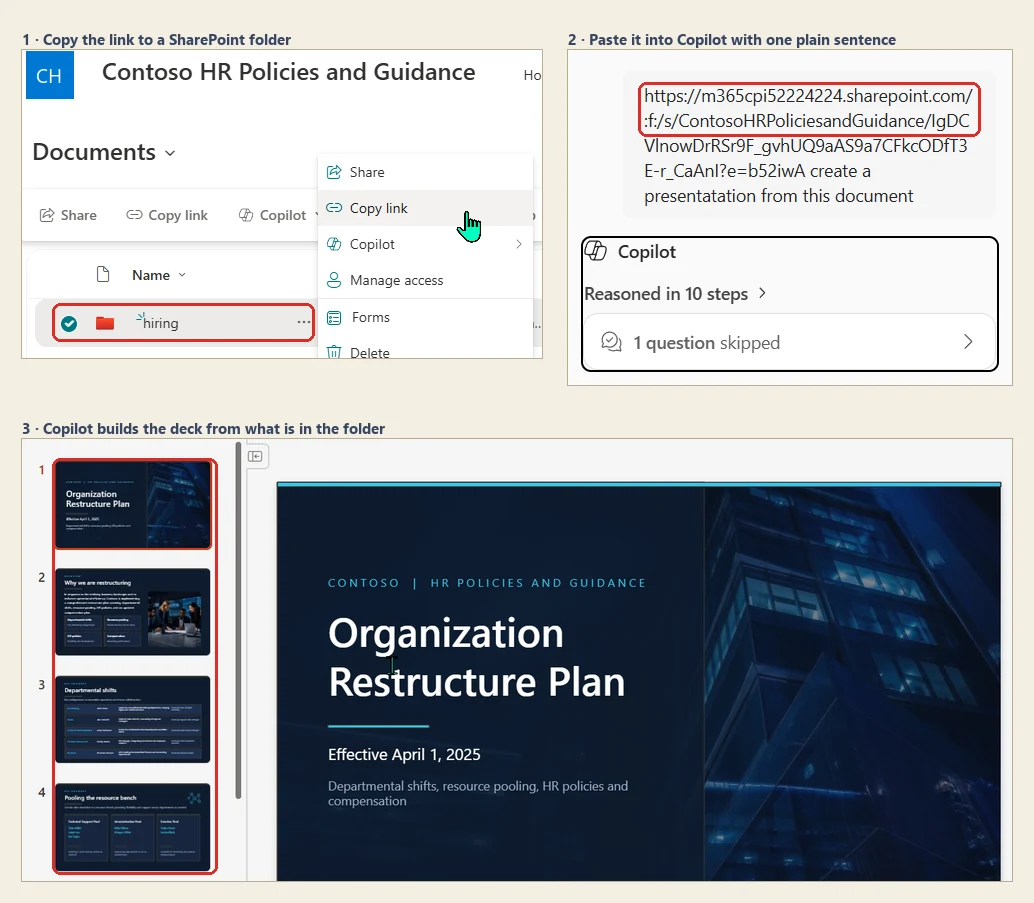
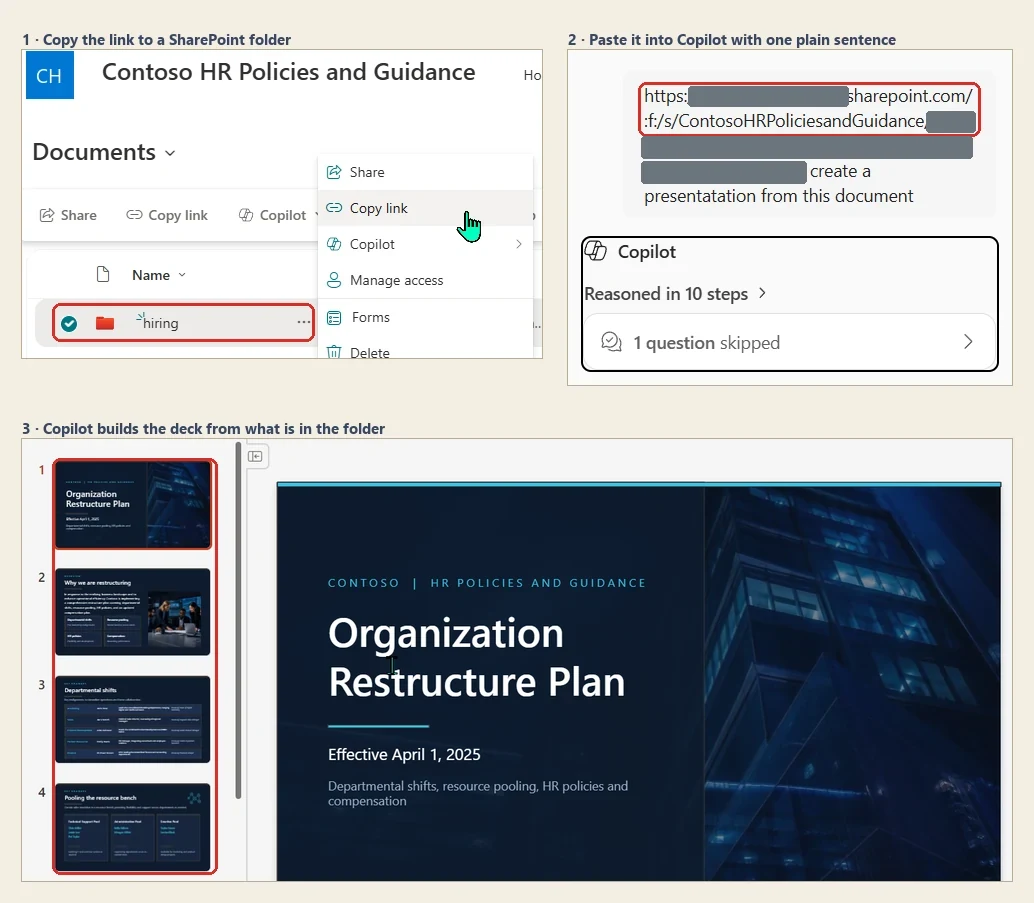
Redact live SharePoint sharing token in S13, and fix a slide count
Two publish blockers found by reading the Rule #8 image observations back
against what the prose claims about the same images.

1. S13 exposed a working sharing URL. The red box in that panel deliberately
   draws the eye to the pasted link, and the link was fully legible: lab
   tenant host, folder path, sharing token and its ?e= parameter. The tenant
   is a disposable CDX lab holding Contoso sample data, so the blast radius
   is small - but a sharing URL with a live token does not belong in a public
   post. Grey bars now cover the tenant subdomain and the token. The ":f:"
   folder marker and the library name are deliberately left readable, because
   the body text teaches ":f:" as SharePoint's own marker for a folder rather
   than a file - redacting it would have removed the teaching point.

2. The same section claimed "Five slides are visible in the thumbnail rail".
   The rail shows four: Organization Restructure Plan, Why we are
   restructuring, Departmental shifts, Pooling the resource bench. The
   recorded observation had said "four" all along - the error was in the
   prose, and nothing was comparing the two. Corrected, and the alt text now
   carries the count so the claim and the picture travel together.

Alt text and caption updated to describe the redaction rather than the old
"domain and folder path boxed in red", which is no longer what a reader sees.

Swapping the image changed its hash, which correctly dropped S13 out of the
[…]

Changed region(s): [[0.619, 0.093, 0.9594, 0.2171]]

diff --git a/content/blog/microsoft-365-copilot-august-2026-updates.md b/content/blog/microsoft-365-copilot-august-2026-updates.md
@@ -331,14 +331,14 @@ That matters when the source is a project folder or team library rather than a c
 <p><strong>Microsoft's roadmap still calls this unreleased. It isn't.</strong> The <a href="https://www.microsoft.com/en-us/microsoft-365/roadmap?filters=&amp;searchterms=555894">roadmap entry (555894)</a> reads "You can now" and gives general availability as June 2026, while the same record still carries an <em>In development</em> status. Its two siblings do the same, and none of the three has been modified since <strong>11 February 2026</strong>. I queried Microsoft's public roadmap API directly on 21 August 2026 to confirm that — and then I stopped reading records and tried it.</p>
 </blockquote>
 
-It works. In my lab tenant on 21 August 2026 I opened a SharePoint document library, opened the context menu on a **folder** — not a file — and chose *Copy link*. I pasted that link into Copilot in PowerPoint on the web and added one plain sentence asking it to create a presentation from this document. Copilot reasoned through ten steps, chose a navy and slate corporate style, generated its own images, and built the deck out of what was in that folder. Five slides are visible in the thumbnail rail of my capture, styled end to end.
+It works. In my lab tenant on 21 August 2026 I opened a SharePoint document library, opened the context menu on a **folder** — not a file — and chose *Copy link*. I pasted that link into Copilot in PowerPoint on the web and added one plain sentence asking it to create a presentation from this document. Copilot reasoned through ten steps, chose a navy and slate corporate style, generated its own images, and built the deck out of what was in that folder. Four slides are visible in the thumbnail rail of my capture, styled end to end.
 
 Two things are worth knowing before you go looking for it. The roadmap record scopes this to **Agent Mode** in PowerPoint on the **web** — if you have hunted for it in the desktop app with ordinary Copilot and found nothing, that scoping is the most likely reason. And the link I pasted was a folder link: it carries `:f:` in the path, which is SharePoint's own marker for a folder rather than a file. I did not test whether a plain file link behaves any differently, and I did not test a OneDrive folder link at all — only SharePoint.
 
 
-<img src="/images/blog/copilot-august-2026/lab-s47-ppt-sharepoint-folder-to-deck-annotated.webp" alt="A three-panel screenshot. Panel one shows a SharePoint document library called Contoso HR Policies and Guidance, with a folder named hiring selected and boxed in red and a context menu open on Copy link. Panel two shows the Copilot pane in PowerPoint holding a pasted SharePoint link, with the domain and folder path boxed in red, followed by the words create a presentation from this document, and a Copilot card reading Reasoned in 10 steps. Panel three shows the resulting PowerPoint deck, with the slide thumbnail rail boxed in red and the open title slide reading Organization Restructure Plan beneath a Contoso HR Policies and Guidance label." loading="lazy" decoding="async">
+<img src="/images/blog/copilot-august-2026/lab-s47-ppt-sharepoint-folder-to-deck-annotated.webp" alt="A three-panel screenshot. Panel one shows a SharePoint document library called Contoso HR Policies and Guidance, with a folder named hiring selected and boxed in red and a context menu open on Copy link. Panel two shows the Copilot pane in PowerPoint holding a pasted SharePoint link, boxed in red, with the tenant name and the sharing token covered by grey redaction bars so that only the scheme and the folder path remain readable, followed by the words create a presentation from this document, and a Copilot card reading Reasoned in 10 steps. Panel three shows the resulting PowerPoint deck, with the slide thumbnail rail boxed in red around four generated slides and the open title slide reading Organization Restructure Plan beneath a Contoso HR Policies and Guidance label." loading="lazy" decoding="async">
 
-<p style="font-size:0.88rem;opacity:0.78;margin-top:calc(var(--space-3) * -1);">Copilot in PowerPoint on the web, my own lab tenant, 21 August 2026, using Microsoft's Contoso sample content. Red boxes mine: <strong>1</strong> the folder whose link I copied, <strong>2</strong> the folder path inside the pasted link, <strong>3</strong> the slides Copilot generated from it. Microsoft's roadmap still lists this as in development.</p>
+<p style="font-size:0.88rem;opacity:0.78;margin-top:calc(var(--space-3) * -1);">Copilot in PowerPoint on the web, my own lab tenant, 21 August 2026, using Microsoft's Contoso sample content. Red boxes mine: <strong>1</strong> the folder whose link I copied, <strong>2</strong> the folder path inside the pasted link, <strong>3</strong> the slides Copilot generated from it. The grey bars are mine too — they cover the tenant name and the sharing token; the <code>:f:</code> folder marker is left readable because that is the part worth noticing. Microsoft's roadmap still lists this as in development.</p>
 
 📖 [Roadmap 555894](https://www.microsoft.com/en-us/microsoft-365/roadmap?filters=&searchterms=555894) · [555895](https://www.microsoft.com/en-us/microsoft-365/roadmap?filters=&searchterms=555895) · [555897](https://www.microsoft.com/en-us/microsoft-365/roadmap?filters=&searchterms=555897) · [Microsoft's June 2026 Copilot roundup](https://techcommunity.microsoft.com/blog/microsoft365copilotblog/what%E2%80%99s-new-in-microsoft-365-copilot--june-2026/4529572) · [Copilot in PowerPoint skills](https://support.microsoft.com/en-us/powerpoint/copilot/copilot-in-powerpoint-skills)
 

diff --git a/qa/monthly-copilot/microsoft-365-copilot-august-2026-updates.images.md b/qa/monthly-copilot/microsoft-365-copilot-august-2026-updates.images.md
@@ -179,20 +179,30 @@ cursor on it) and "All skills", with "Show more" beneath.
 than its neighbours — text in the rail is soft and the ribbon is illegible.
 
 ## §13 — PowerPoint referencing SharePoint libraries and OneDrive folders
[2 lines of base64/hex data omitted]
 
-**Observed:** Three-panel composite. **1 · Copy the link to a SharePoint folder:** SharePoint
-site "Contoso HR Policies and Guidance", Documents view, context menu open with "Copy link"
-highlighted; red box around a selected folder named "hiring". **2 · Paste it into Copilot with
-one plain sentence:** red-boxed URL beginning
-`https://m365cpi52224224.sharepoint.com/:f:/s/ContosoHRPoliciesandGuidance/IgDC…` followed by
-"create a presentatation from this document"; Copilot "Reasoned in 10 steps", "1 question
-skipped". **3 · Copilot builds the deck from what is in the folder:** four red-boxed slide
-thumbnails and a title slide "CONTOSO | HR POLICIES AND GUIDANCE — Organization Restructure
-Plan, Effective April 1, 2025".
+**Observed (re-observed 21 Aug 2026 after redaction):** Three-panel composite. **1 · Copy the
+link to a SharePoint folder:** SharePoint site "Contoso HR Policies and Guidance", Documents
+view, context menu open with "Copy link" highlighted (cursor on it), items Share / Copy link /
+Copilot / Manage access / Forms / Delete; red box around a selected folder named "hiring".
+**2 · Paste it into Copilot with one plain sentence:** red-boxed URL now reading
+`https:` ▮ `sharepoint.com/:f:/s/ContosoHRPoliciesandGuidance` ▮ — four grey redaction bars
+cover the tenant subdomain, the token and the `?e=` share parameter, leaving the scheme, the
+`:f:` folder marker and the library name readable. Followed by "create a presentatation from
+this document" (Microsoft's UI shows my typo, not a rendering fault); Copilot card "Reasoned
+in 10 steps", "1 question skipped". **3 · Copilot builds the deck from what is in the folder:**
+red-boxed thumbnail rail with **exactly four** numbered slides — 1 "Organization Restructure
+Plan", 2 "Why we are restructuring", 3 "Departmental shifts", 4 "Pooling the resource bench" —
+and an open title slide "CONTOSO | HR POLICIES AND GUIDANCE — Organization Restructure Plan,
+Effective April 1, 2025".
 
-**Verdict:** ✅ MATCH on content. 🔴 **Flag raised for Sush** — the pasted URL exposes the lab
-tenant hostname *and* a full sharing token (`?e=…`). See "Flags" below.
+**Verdict:** ✅ MATCH. Both flags from the first pass are now closed:
+- 🔴 → ✅ **Live sharing URL redacted.** The first capture exposed the lab tenant hostname and
+  a complete sharing token. Grey bars now cover both. The `:f:` marker is deliberately left
+  visible because the body text teaches it as SharePoint's folder marker.
+- 🔴 → ✅ **Body/image count mismatch fixed.** The prose claimed "Five slides are visible in the
+  thumbnail rail"; the rail shows four. Corrected to "Four slides". *Lesson: an observation is
+  only half the check — it has to be read back against what the prose claims about the image.*
 
 ## §14 — Word added Anthropic model choice for editing
[1 lines of base64/hex data omitted]
@@ -892,7 +902,8 @@ still block grounding conditionally).
 
 | § | Severity | Finding |
 |---|---|---|
-| 13 | 🔴 Review before publish | The pasted SharePoint URL shows the lab tenant host `m365cpi52224224.sharepoint.com` **and** a complete sharing token (`?e=b52iwA`). The folder is Contoso demo content in a disposable CDX lab tenant, so the blast radius is small — but a sharing link with a live token is still a credential in a public post. Recommend blurring the token segment. |
+| 13 | ✅ **Resolved 21 Aug 2026** | ~~The pasted SharePoint URL shows the lab tenant host and a complete sharing token (`?e=…`).~~ Grey redaction bars now cover the tenant subdomain, the token and the `?e=` parameter; the `:f:` folder marker and library name are left readable because the body text teaches them. Image re-observed under its new hash `ace10fea48d1`. |
+| 13 | ✅ **Resolved 21 Aug 2026** | ~~Body text claimed "Five slides are visible in the thumbnail rail"; the rail shows four.~~ Corrected to "Four slides", and the alt text now states the count. Found by reading the recorded observation back against the prose — the observation had said "four" all along. |
 | 16 | 🟡 Sush's call | Status bar reads `Inner Ring (Fastfood) : FUS1` — a Microsoft-internal build-ring name, legible at full size. Not confidential, but it does mark the capture as an internal build. |
 | 12 | 🟡 Cosmetic | Capture is visibly lower resolution than its neighbours. |
 | 18 | 🟡 Copy | Shot is iPad-only; heading says "iPhone and iPad". Ensure the alt text does not claim an iPhone is pictured. |
